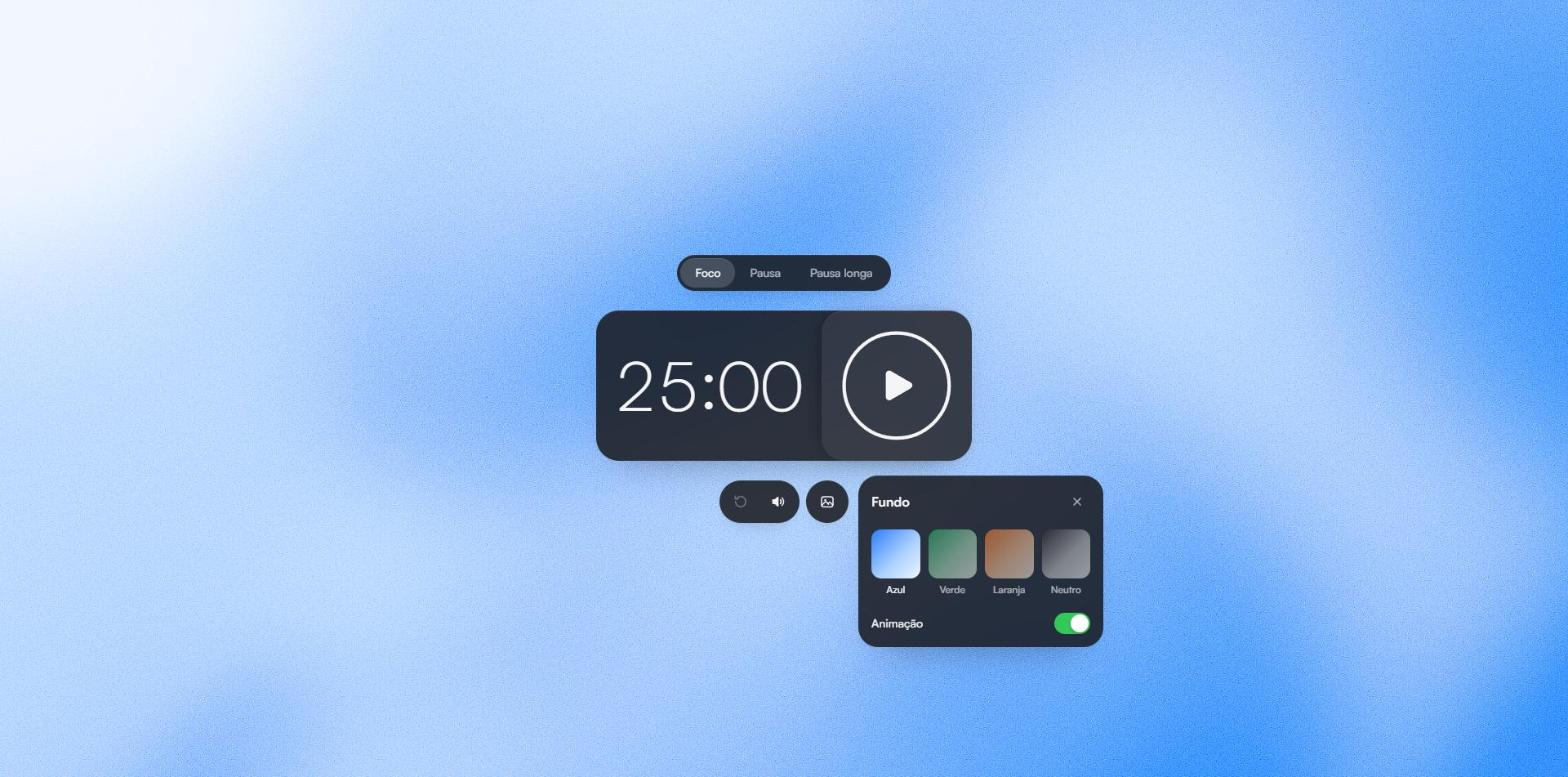
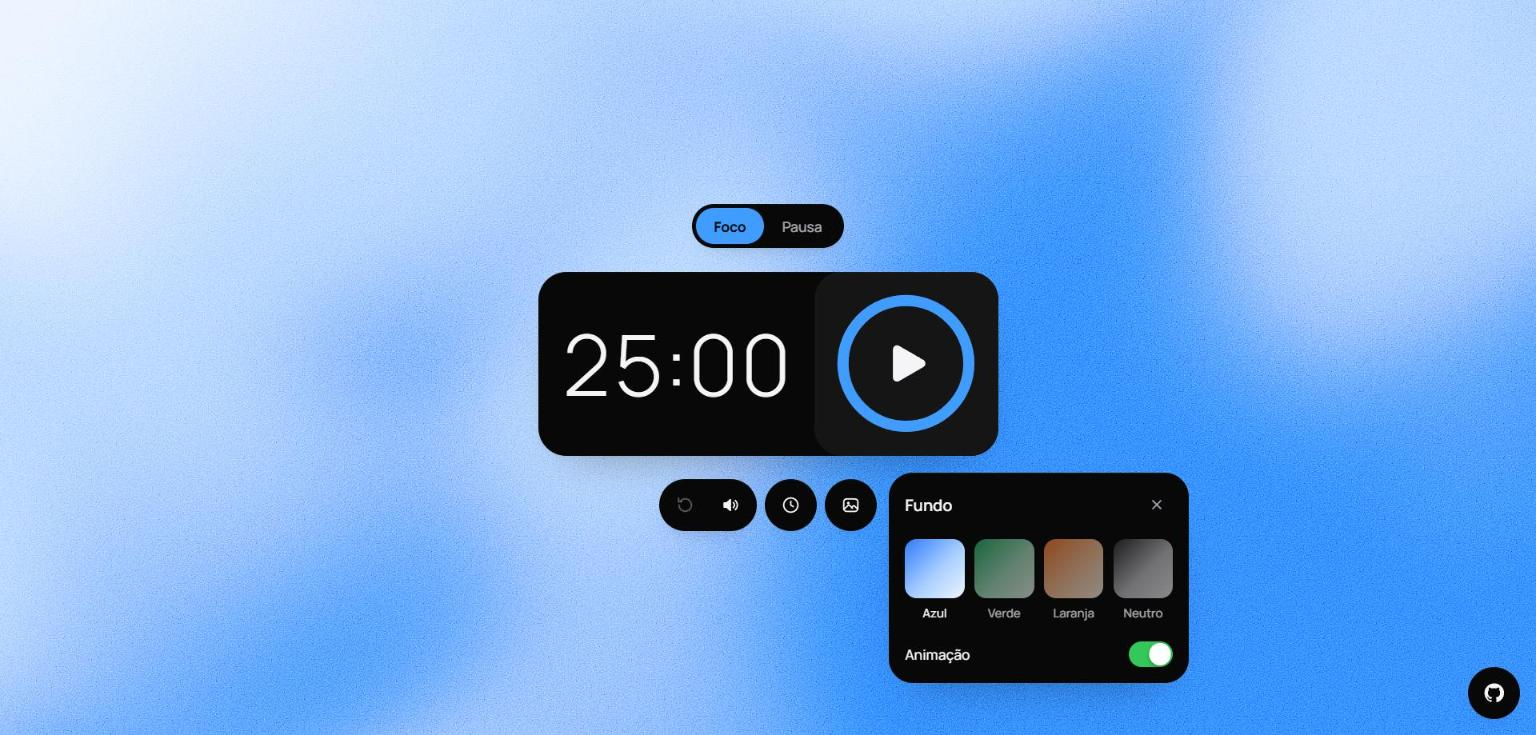
docs: atualiza README e imagens com tempos configuráveis

diff --git a/README.md b/README.md
@@ -1,6 +1,6 @@
 # Pomodoro
 
-Timer Pomodoro minimalista com visual inspirado na Apple: vidro escuro, fundo em degradê fluido animado em WebGL, microinterações com física de mola e sons sintetizados em tempo real.
+Timer Pomodoro minimalista com visual inspirado na Apple: cards escuros, fundo em degradê fluido animado em WebGL, microinterações com física de mola e sons sintetizados em tempo real.
 
 ![React](https://img.shields.io/badge/React-18-61dafb?logo=react&logoColor=white)
 ![TypeScript](https://img.shields.io/badge/TypeScript-5-3178c6?logo=typescript&logoColor=white)
@@ -11,7 +11,8 @@ Timer Pomodoro minimalista com visual inspirado na Apple: vidro escuro, fundo em
 
 ## Funcionalidades
 
-- **Ciclo Pomodoro completo**: 25 min de foco, 5 min de pausa e pausa longa de 15 min a cada 4 sessões. A próxima etapa nunca começa sozinha.
+- **Ciclo Pomodoro completo**: foco e pausa, com pausa longa automática a cada 4 sessões. Durante a pausa longa, o seletor mostra "Pausa longa". A próxima etapa nunca começa sozinha.
+- **Tempos configuráveis**: foco (5 a 120 min), pausa (1 a 30 min) e pausa longa (5 a 60 min) ajustáveis no painel de tempos. Com o timer parado, o novo tempo aparece na hora; uma sessão em andamento termina com a duração original.
 - **Tempo preciso**: a contagem é baseada em timestamps, então não atrasa com a aba em segundo plano nem com o computador suspenso.
 - **Sessão persistente**: ao recarregar a página, a sessão continua de onde parou. Se terminou com a página fechada, aparece como concluída, sem tocar o alarme de novo.
 - **Sincronização entre abas**: duas abas abertas mostram a mesma sessão.
@@ -21,6 +22,8 @@ Timer Pomodoro minimalista com visual inspirado na Apple: vidro escuro, fundo em
 - **Sons em todas as interações**, sintetizados com Web Audio (sem nenhum arquivo de áudio), com botão para silenciar.
 - **Ícone da aba dinâmico**: mostra play ou pause conforme o estado, junto com o tempo restante no título.
 - **Atalho**: `Espaço` inicia e pausa.
+
+![Painel de tempos](docs/durations.jpg)
 
 ![Painel de fundos](docs/backgrounds.jpg)
 
@@ -35,7 +38,7 @@ Ao mudar de domínio, atualize o endereço canônico, `og:url`, `og:image` e `tw
 - **React 18** + **TypeScript**, com **Vite** como bundler.
 - **WebGL** puro para o fundo animado (um fragment shader próprio, sem three.js).
 - **Web Audio API** para todos os sons.
-- **CSS** com container queries, `backdrop-filter` e tokens de design em variáveis CSS.
+- **CSS** com container queries e tokens de design em variáveis CSS.
 - Nenhuma biblioteca de UI, animação ou estado: a física de mola, os componentes e os hooks são do próprio projeto. A única dependência de runtime é o React.
 
 ## Como rodar
@@ -66,10 +69,11 @@ src/
 ├── app/                         composição da tela e layout da página
 ├── features/
 │   ├── timer/
-│   │   ├── model/timer.ts       lógica pura: estados, transições, persistência e desfazer
+│   │   ├── model/timer.ts       lógica pura: estados, transições, tempos, persistência e desfazer
 │   │   ├── hooks/               useTimer, usePomodoro, useCountdown, useAlarm
-│   │   ├── components/          TimerFace, TimerRing, Digits, ModePicker, SessionControls, UndoToast
-│   │   ├── favicon.ts         ícone da aba (play/pause)
+│   │   ├── components/          TimerFace, TimerRing, Digits, ModePicker, SessionControls,
+│   │   │                        DurationButton, DurationPanel, UndoToast
+│   │   ├── favicon.ts           ícone da aba (play/pause)
 │   │   ├── notifications.ts
 │   │   ├── timer.css
 │   │   └── index.ts
@@ -83,8 +87,8 @@ src/
 │       └── index.ts
 └── shared/
     ├── lib/                     spring (física de mola), sounds (Web Audio), keyboard
-    ├── hooks/                   useSpring, usePress, useHover, useReducedMotion, useStored
-    ├── ui/                      PressButton, IconButton, ícones animados
+    ├── hooks/                   useSpring, usePress, useHover, usePanel, useReducedMotion, useStored
+    ├── ui/                      PressButton, IconButton, IconLink, Popover (painéis), ícones animados
     └── styles/                  tokens.css e base.css
 tests/
 └── timer.test.ts
@@ -99,6 +103,7 @@ Toda a regra do Pomodoro fica em `features/timer/model/timer.ts`, sem React nem 
 - A conclusão (`settle`) é **idempotente**: uma sessão só conclui uma vez, então o alarme e a contagem de ciclos nunca duplicam.
 - `serialize` e `restore` são inversos exatos para estados válidos. Assim, abas sincronizadas não ficam reescrevendo o storage uma da outra.
 - O "Desfazer" guarda o snapshot certo: trocar de modo várias vezes seguidas ainda recupera a sessão original.
+- Os tempos escolhidos fazem parte do estado, e cada sessão guarda a própria duração (`total`). Assim, mudar as preferências não altera uma sessão já iniciada nem o progresso do anel.
 
 ### Renderização enxuta
 
@@ -133,4 +138,4 @@ Toda a regra do Pomodoro fica em `features/timer/model/timer.ts`, sem React nem 
 npm test
 ```
 
-Os testes cobrem a lógica do timer: precisão por timestamps, conclusão única, pausa longa a cada quatro focos, proteção contra reinícios acidentais, desfazer e persistência (recuperação, sessão expirada, dados corrompidos e relógio adiantado).
+Os testes cobrem a lógica do timer: precisão por timestamps, conclusão única, pausa longa a cada quatro focos, tempos personalizados, proteção contra reinícios acidentais, desfazer e persistência (recuperação, sessão expirada, dados corrompidos e relógio adiantado).
